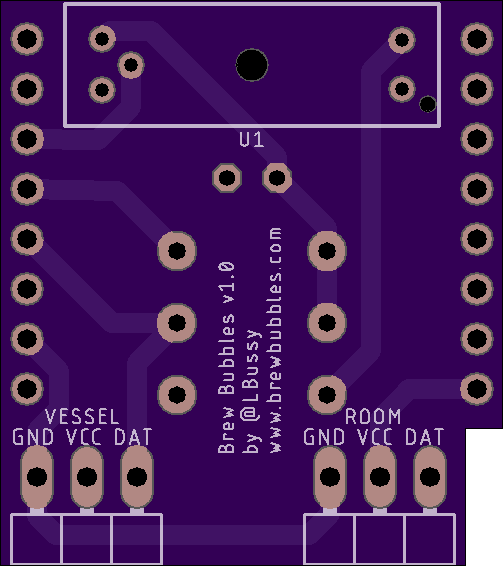
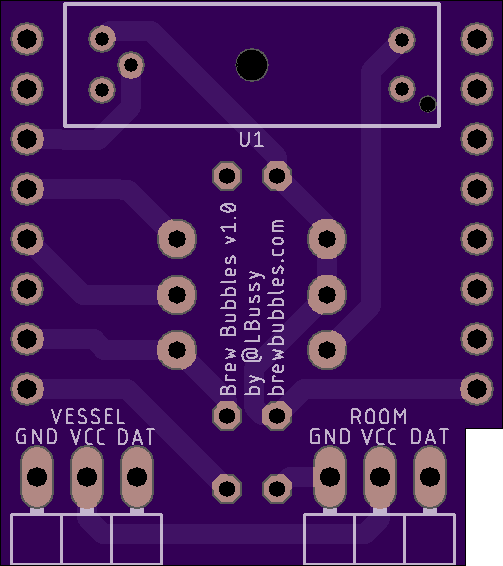
Add decoupling caps to 3v3 and 5v

diff --git a/pcb/Brew-Bubbles Parts.html b/pcb/Brew-Bubbles Parts.html
@@ -3,9 +3,11 @@
 <table>
 <tr><td><b>Part</b></td><td><b>Value</b></td><td><b>Device</b></td><td><b>Package</b></td><td><b>Description</b></td><td><b>POPULARITY</b></td><td><b>PROD_ID</b></td><td><b>SF_ID</b></td><td><b>SPICEPREFIX</b></td><td><b>VALUE</b></td></tr>
 <tr><td>C1</td><td>0.1μF</td><td>C-EU025-024X044</td><td>C025-024X044</td><td>CAPACITOR, European symbol</td><td>56</td><td></td><td></td><td>C</td><td></td></tr>
-<tr><td>R1</td><td>2.2kΩ</td><td>2K2OHM-HORIZ-1/4W-5%</td><td>AXIAL-0.3</td><td>2K2Ω resistor</td><td></td><td>RES-8371</td><td></td><td></td><td>2200</td></tr>
+<tr><td>C2</td><td>0.1μF</td><td>C-EU025-024X044</td><td>C025-024X044</td><td>CAPACITOR, European symbol</td><td>56</td><td></td><td></td><td>C</td><td></td></tr>
+<tr><td>C3</td><td>0.1μF</td><td>C-EU025-024X044</td><td>C025-024X044</td><td>CAPACITOR, European symbol</td><td>56</td><td></td><td></td><td>C</td><td></td></tr>
+<tr><td>R1</td><td>150Ω</td><td>330OHM-HORIZ-1/4W-5%</td><td>AXIAL-0.3</td><td>330Ω resistor</td><td></td><td>RES-8371</td><td></td><td></td><td>150</td></tr>
 <tr><td>R2</td><td>2.2kΩ</td><td>2K2OHM-HORIZ-1/4W-5%</td><td>AXIAL-0.3</td><td>2K2Ω resistor</td><td></td><td>RES-8371</td><td></td><td></td><td>2200</td></tr>
-<tr><td>R3</td><td>150Ω</td><td>330OHM-HORIZ-1/4W-5%</td><td>AXIAL-0.3</td><td>330Ω resistor</td><td></td><td>RES-8371</td><td></td><td></td><td>150</td></tr>
+<tr><td>R3</td><td>2.2kΩ</td><td>2K2OHM-HORIZ-1/4W-5%</td><td>AXIAL-0.3</td><td>2K2Ω resistor</td><td></td><td>RES-8371</td><td></td><td></td><td>2200</td></tr>
 <tr><td>ROOM</td><td>3PIN90</td><td>PINHD-1X3/90</td><td>1X03/90</td><td>PIN HEADER</td><td>17</td><td></td><td></td><td></td><td></td></tr>
 <tr><td>U1</td><td>GP1A57HR</td><td>GP1A57HR</td><td>GP1A57HR</td><td>Sharp GP1A57HR Transmissive Photointerrupter</td><td></td><td></td><td>SEN-09299</td><td></td><td></td></tr>
 <tr><td>U2</td><td>WEMOS-D1-MINI</td><td>WEMOS-D1-MINI</td><td>WEMOS-D1-MINI</td><td>WEMOS D1 mini</td><td></td><td></td><td></td><td></td><td></td></tr>

diff --git a/pcb/Brew-Bubbles Values.html b/pcb/Brew-Bubbles Values.html
@@ -2,9 +2,9 @@
 <p>
 <table>
 <tr><td><b>Qty</b></td><td><b>Value</b></td><td><b>Device</b></td><td><b>Package</b></td><td><b>Parts</b></td><td><b>Description</b></td><td><b>POPULARITY</b></td><td><b>PROD_ID</b></td><td><b>SF_ID</b></td><td><b>SPICEPREFIX</b></td><td><b>VALUE</b></td></tr>
-<tr><td>1</td><td>0.1μF</td><td>C-EU025-024X044</td><td>C025-024X044</td><td>C1</td><td>CAPACITOR, European symbol</td><td>56</td><td></td><td></td><td>C</td><td></td></tr>
-<tr><td>1</td><td>150Ω</td><td>150OHM-HORIZ-1/4W-5%</td><td>AXIAL-0.3</td><td>R3</td><td>150Ω resistor</td><td></td><td>RES-8371</td><td></td><td></td><td>150</td></tr>
-<tr><td>2</td><td>2.2kΩ</td><td>2K2OHM-HORIZ-1/4W-5%</td><td>AXIAL-0.3</td><td>R1, R2</td><td>2K2Ω resistor</td><td></td><td>RES-8371</td><td></td><td></td><td>2200</td></tr>
+<tr><td>3</td><td>0.1μF</td><td>C-EU025-024X044</td><td>C025-024X044</td><td>C1, C2, C3</td><td>CAPACITOR, European symbol</td><td>56</td><td></td><td></td><td>C</td><td></td></tr>
+<tr><td>1</td><td>150Ω</td><td>150OHM-HORIZ-1/4W-5%</td><td>AXIAL-0.3</td><td>R1</td><td>150Ω resistor</td><td></td><td>RES-8371</td><td></td><td></td><td>150</td></tr>
+<tr><td>2</td><td>2.2kΩ</td><td>2K2OHM-HORIZ-1/4W-5%</td><td>AXIAL-0.3</td><td>R2, R3</td><td>2K2Ω resistor</td><td></td><td>RES-8371</td><td></td><td></td><td>2200</td></tr>
 <tr><td>2</td><td>3PIN90</td><td>PINHD-1X3/90</td><td>1X03/90</td><td>ROOM, VESSEL</td><td>PIN HEADER</td><td>17</td><td></td><td></td><td></td><td></td></tr>
 <tr><td>1</td><td>GP1A57HR</td><td>GP1A57HR</td><td>GP1A57HR</td><td>U1</td><td>Sharp GP1A57HR Transmissive Photointerrupter</td><td></td><td></td><td>SEN-09299</td><td></td><td></td></tr>
 <tr><td>1</td><td>WEMOS-D1-MINI</td><td>WEMOS-D1-MINI</td><td>WEMOS-D1-MINI</td><td>U2</td><td>WEMOS D1 mini</td><td></td><td></td><td></td><td></td><td></td></tr>

diff --git a/pcb/README.md b/pcb/README.md
@@ -25,15 +25,15 @@ Since this uses 1 or 2 each of very common, very inexpensive components, you may
 
 | **Quan** | **Description** | **Placement** |
 |---|---|---|
-| 1 | 0.1μF 10V Ceramic Capacitor | C1 |
-| 1 | 150Ω 1/4W 5%  Axial resistor | R1, R2 |
-| *2 | 2.2kΩ 1/4W 5% Axial resistor | R3 |
-| *2 | 3-Pin 90° Header | ROOM, VESSEL |
+| 3 | 0.1μF 10V Ceramic Capacitor | C1, C2. C3 |
+| 1 | 150Ω 1/4W 5%  Axial resistor | R1 |
+| *2 | 2.2kΩ 1/4W 5% Axial resistor | R2, R3 |
+| *2 | 3-Pin 90° Header | VESSEL, ROOM |
 | 1 | Sharp GP1A57HR Transmissive Photointerrupter | U1 |
 | 2 | 8-pin male stackable header (nearly always comes with the D1) |  |
 | 2 | 8-pin female stackable header (nearly always comes with the D1) |  |
 | 1 | Wemos D1 Mini R2 | U2 |
-| *2 | Waterproof DS18B20 Temperature Sensor with lead | ROOM, VESSEL |
+| *2 | Waterproof DS18B20 Temperature Sensor with lead | VESSEL, ROOM |
 
 The items with an *asterisk are optional.  They are in the design to provide a means to monitor and trend one's ambient temperature where the fermenter is placed, and/or the fermenting liquid's temperature via a thermowell or insulated in contact with the fermenter.  If one chooses not to use these, the firmware will automatically skip reporting these readings.
 
@@ -41,7 +41,7 @@ Note that component labeled "ROOM" is an actual bare DS18B20 sensor, not a water
 
 ## Order Boards
 
-Order 3 boards for $5.65 from [Oshpark using this link](https://oshpark.com/shared_projects/Ey5T84QR), or download the Brew-Bubbles.brd file and use it with the board fabrication house of your choosing.
+Order 3 boards for $5.65 from [Oshpark using this link](https://oshpark.com/shared_projects/JBwD0wI7), or download the Brew-Bubbles.brd file and use it with the board fabrication house of your choosing.
 
 ## Modifying These Files
 If you would like to personalize these board designs, you may modify them with [Autodesk's EAGLE](https://www.autodesk.com/products/eagle/overview). EAGLE is a scriptable electronic design automation (EDA) application with schematic capture, printed circuit board (PCB) layout, auto-router and computer-aided manufacturing (CAM) features. EAGLE stands for Easily Applicable Graphical Layout Editor and is developed by CadSoft Computer GmbH. The company was acquired by Autodesk Inc. in 2016.  

diff --git a/TODO.md b/TODO.md
@@ -2,13 +2,20 @@
 
 ## Open
 
+- Add task registration/scheduling (https://github.com/arkhipenko/TaskScheduler)
+- Add hostname change to AP Portal
+- Add AP instructions to firmware instructions
+- Add LED flashes to
+  - Initial connect in AP mode
+  - Seeking previous AP
+  - AP mode on failed connect
+  - Blocking loop for NTP
+  - Bubble flashes
 - OTA changes
   - Try to apply former configuration when updating firmware
   - Do a version check
     - Add JSON to SPIFFS
     - Compare SPIFFS JSON with repo JSON
-- Add task registration/scheduling (https://github.com/arkhipenko/TaskScheduler)
-- Add hostname change to AP Portal
 - Fix deprecation error in http
 
 ## Complete
@@ -30,7 +37,7 @@
 - ~~Add local OTA~~
 - ~~Add in NTP~~
   - ~~Add timestamp to JSON~~
-- ~~Add reset/forget WiFi for pin pulldown on starup~~
+- ~~Add reset/forget WiFi for pin pulldown on startup~~
 - ~~Configuration Work~~
   - ~~Remove NTP server from config~~
   - ~~Remove NTP interval from config~~
@@ -77,7 +84,7 @@
 - ~~Force NTP to make a blocking call to get time on startup~~
 - ~~BUG: IPL stopped working~~ (no longer using)
 - ~~Fix losing WiFi config on power loss~~
-- ~~Merge back in MDNS~~
+- ~~Merge back in mDNS~~
 - ~~Get web pages working~~
   - ~~Have bubbles display in home page~~
   - ~~Add endpoint to receive new settings~~

diff --git a/pcb/OshParkDescription.md b/pcb/OshParkDescription.md
@@ -6,9 +6,9 @@ Since this uses 1 or 2 each of very common, very inexpensive components, you may
 
 | **Quan** | **Description** | **Placement** |
 |---|---|---|
-| 1 | 0.1μF 10V Ceramic Capacitor | C1 |
-| 1 | 150Ω 1/4W 5%  Axial resistor | R1, R2 |
-| *2 | 2.2kΩ 1/4W 5% Axial resistor | R3 |
+| 3 | 0.1μF 10V Ceramic Capacitor | C1, C2. C3 |
+| 1 | 150Ω 1/4W 5%  Axial resistor | R1 |
+| *2 | 2.2kΩ 1/4W 5% Axial resistor | R2, R3 |
 | *2 | 3-Pin 90° Header | VESSEL, ROOM |
 | 1 | Sharp GP1A57HR Transmissive Photointerrupter | U1 |
 | 2 | 8-pin male stackable header (nearly always comes with the D1) |  |
